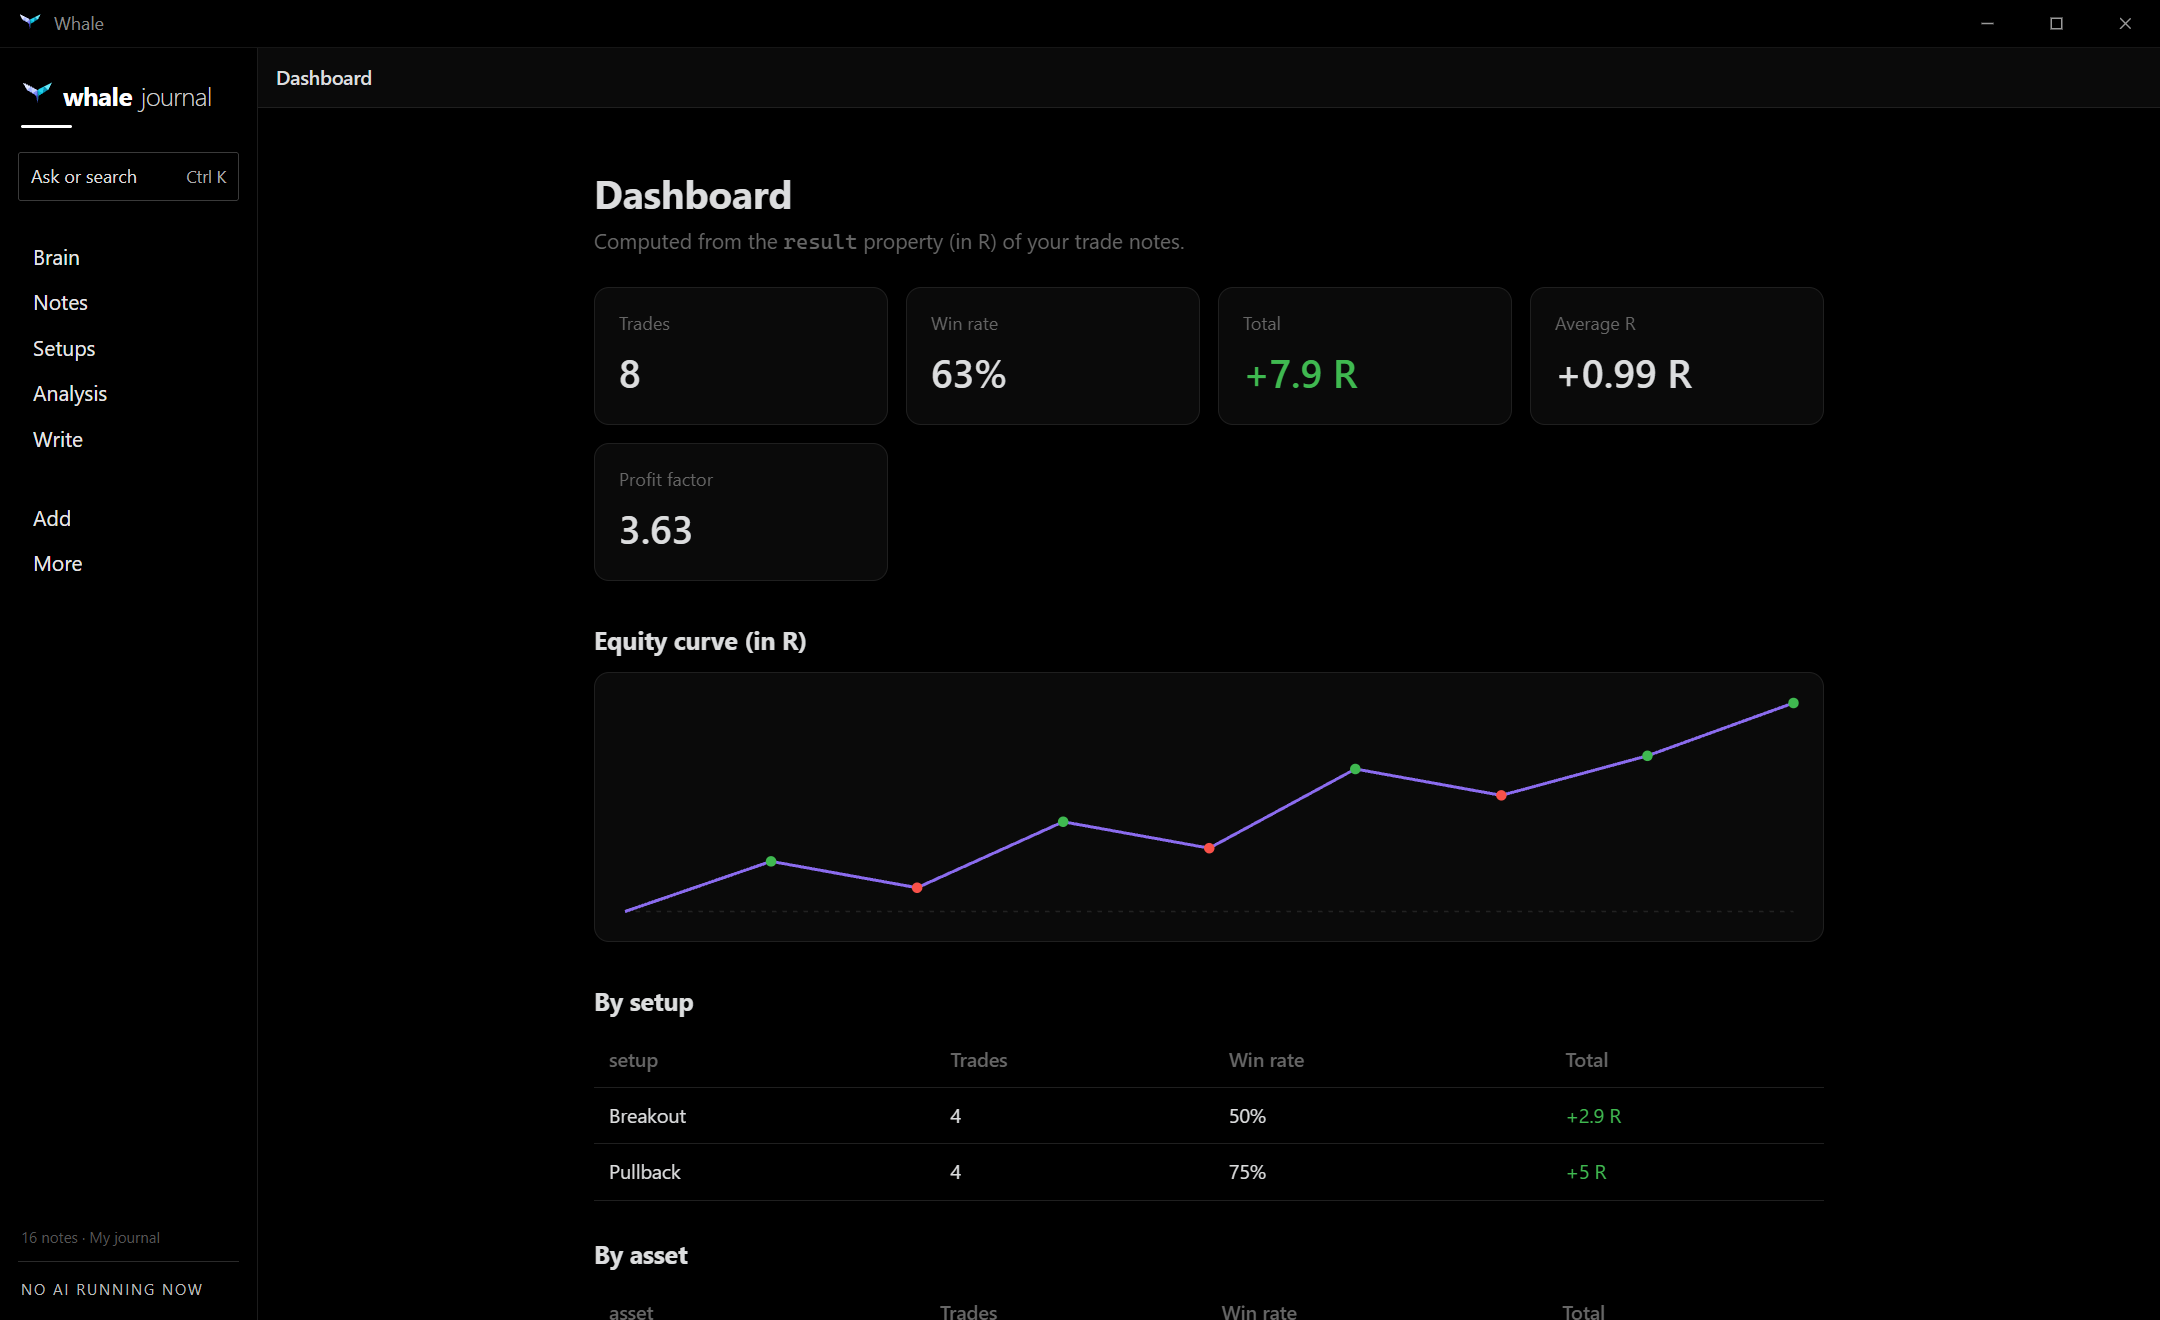
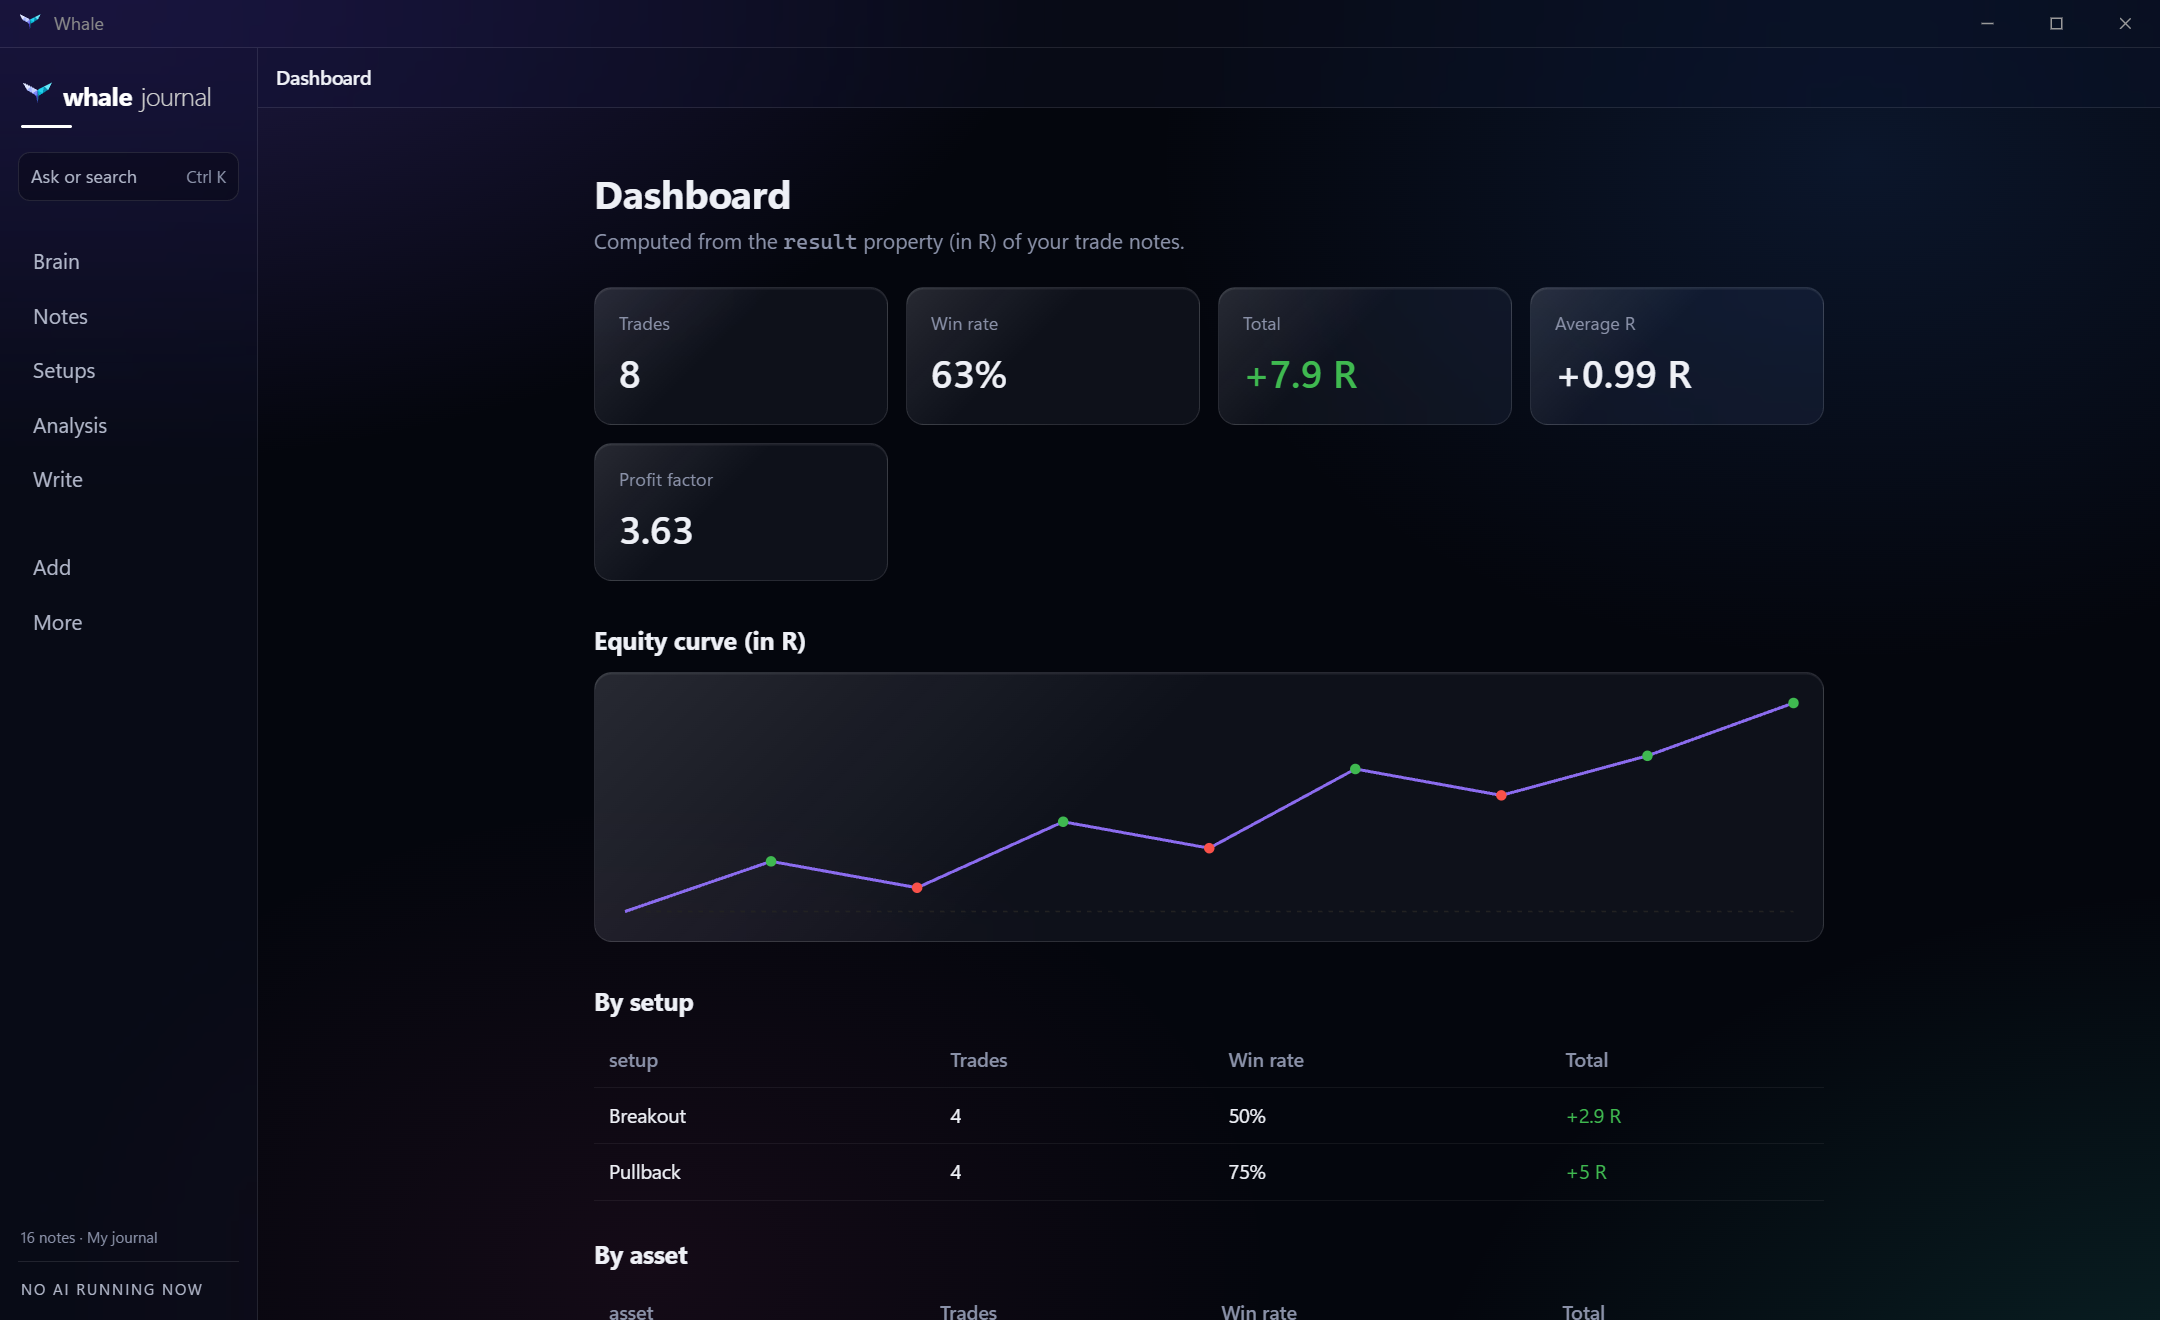
Glass design across the app (liquid glass and glassmorphism)
- Dark night background with soft violet, blue and teal ambient light, and
  three glass levels: chrome (title bar, navigation, sidebars, panels, the
  terminal's bars), cards (tiles, dashboard, setups, notes), and floating
  surfaces (menus, palette, modals, popovers, toasts) with a light edge.
- Controls become translucent; the selected one is a raised glass pill.
  Charts are transparent over a faint glass so the data stays sharp.
- Text colors raised to at least 4.5:1 contrast, visible keyboard focus,
  web-size targets for small controls, labels on icon-only buttons.
- Solid surfaces when Windows asks for reduced transparency, no transitions
  when it asks for reduced motion.

diff --git a/src/style.css b/src/style.css
@@ -552,3 +552,144 @@ body.desktop #app{height:calc(100vh - 32px)}
 @media (max-width:1150px){.an-body{grid-template-columns:42px minmax(0,1fr) 260px}.an-tabs button small{display:none}}
 @media (max-width:900px){.an-body{grid-template-columns:42px minmax(0,1fr)}.an-panel{display:none}.an-search{width:200px}}
 .pr code{font-family:var(--mono);font-size:11.5px;color:var(--tx3);margin-left:4px}
+
+/* =====================================================================================
+   Glass theme (ui-ux-pro-max: "liquid-glass" + "glassmorphism" on a dark OLED base)
+   - content stays on a clear layer; glass is used for chrome, cards, controls and overlays
+   - three glass levels: chrome (nav, bars, panels), cards, floating (menus, modals, popovers)
+   - text contrast >= 4.5:1, visible focus, opaque fallback for reduced transparency, no motion when reduced
+   ===================================================================================== */
+:root{
+  --tx:#eef0f6;--tx2:#b1b7c9;--tx3:#8a91a8;
+  --line:rgba(255,255,255,.08);--line2:rgba(255,255,255,.13);
+  --bg2:rgba(255,255,255,.035);--bg3:rgba(255,255,255,.055);--bg4:rgba(255,255,255,.08);
+  --night:#04060d;
+  /* glass levels */
+  --g1:rgba(14,17,30,.40);--g1-blur:blur(22px) saturate(150%);
+  --g2:rgba(255,255,255,.045);--g2-blur:blur(16px) saturate(140%);
+  --g3:rgba(16,18,30,.72);--g3-blur:blur(28px) saturate(170%);
+  --g-edge:rgba(255,255,255,.10);--g-edge-hi:rgba(255,255,255,.18);
+  --g-shine:linear-gradient(135deg,rgba(255,255,255,.10),rgba(255,255,255,0) 42%);
+  --g-inset:inset 0 1px 0 rgba(255,255,255,.07);
+  --g-shadow:0 10px 34px rgba(0,0,0,.38);
+  --ctl:rgba(255,255,255,.045);--ctl-hover:rgba(255,255,255,.085);
+  --ctl-on:linear-gradient(180deg,rgba(255,255,255,.17),rgba(255,255,255,.06));
+  --acc-glass:rgba(139,108,239,.16);--acc-edge:rgba(166,139,255,.38);
+  --field:rgba(0,0,0,.28);
+  --r-sm:8px;--r-md:12px;--r-lg:16px;
+  --t-fast:150ms;--t-med:220ms;
+}
+html,body{font-family:Inter,"Segoe UI Variable Text","Segoe UI",system-ui,-apple-system,sans-serif}
+/* ambient light behind the glass: violet, blue and teal halos on deep night */
+body{background:
+  radial-gradient(1100px 700px at 4% -14%,rgba(124,92,255,.30),transparent 62%),
+  radial-gradient(900px 640px at 104% 112%,rgba(45,212,191,.15),transparent 62%),
+  radial-gradient(780px 560px at 86% 12%,rgba(59,130,246,.13),transparent 60%),
+  radial-gradient(700px 520px at 30% 96%,rgba(236,72,153,.07),transparent 60%),
+  var(--night);background-attachment:fixed}
+#main,#app{background:transparent}
+.view:not(#graphview){background:transparent}
+
+/* shared glass recipes */
+#titlebar,#nav,#side,#tabbar,#right,#aipanel,.an-head,.an-rail,.an-panel,.gr-top{
+  background:var(--g1);-webkit-backdrop-filter:var(--g1-blur);backdrop-filter:var(--g1-blur);border-color:var(--g-edge)!important}
+body.desktop #titlebar{background:var(--g1);border-bottom:1px solid var(--g-edge)}
+#nav{border-right:1px solid var(--g-edge)}
+.card,.dk-tile,.dk-card,.su-card,.props,.su-trade,#eq,.bl,.logos button,.an-sec .su-svg{
+  background:var(--g2);background-image:var(--g-shine);-webkit-backdrop-filter:var(--g2-blur);backdrop-filter:var(--g2-blur);
+  border:1px solid var(--g-edge);border-radius:var(--r-md);box-shadow:var(--g-inset)}
+.an-sec .su-svg{padding:6px;border-radius:var(--r-sm)}
+.mbox,.pbox,#more,.an-sugg,.an-pop,.an-edit,#gtip,.toast,#glegend,#ghistwrap{
+  background:var(--g3);background-image:var(--g-shine);-webkit-backdrop-filter:var(--g3-blur);backdrop-filter:var(--g3-blur);
+  border:1px solid var(--g-edge-hi);box-shadow:var(--g-inset),var(--g-shadow)}
+.mbox{border-radius:var(--r-lg)}
+.pbox{border-radius:var(--r-lg)}
+#more{border-radius:var(--r-md)}
+.modal{background:rgba(3,5,12,.58);-webkit-backdrop-filter:blur(6px);backdrop-filter:blur(6px)}
+#glegend{padding:12px 14px;border-radius:var(--r-md)}
+#ghistwrap{padding:10px 12px 8px;border-radius:var(--r-md);width:186px}
+
+/* controls: translucent, the active one is a raised liquid pill */
+.tbtn,.an-ghost,.chip,.suggest button,.apsug button,.src a,#apOpen,.su-item,.mi,.nl,.pr,.wl-row,.an-dl,.an-pi,.an-s,.tl-item{
+  transition:background-color var(--t-fast) ease,border-color var(--t-fast) ease,color var(--t-fast) ease,box-shadow var(--t-fast) ease}
+.tbtn,.an-ghost,.chip,.suggest button,.apsug button,#apOpen{background:var(--ctl);border:1px solid var(--g-edge);color:var(--tx2)}
+.tbtn,.an-ghost{border-radius:var(--r-sm);min-height:28px}
+.chip{min-height:26px;padding:2px 11px;border-radius:999px}
+.tbtn:hover,.an-ghost:hover,.chip:hover,.suggest button:hover,.apsug button:hover,#apOpen:hover{background:var(--ctl-hover);border-color:var(--g-edge-hi);color:var(--tx)}
+.chip.on,.su-item.on,.mi.on{background:var(--ctl-on);border-color:var(--g-edge-hi);color:#fff;box-shadow:var(--g-inset)}
+.tbtn.ai,.an-ghost.ai{background:var(--acc-glass);border-color:var(--acc-edge);color:#d6cbff}
+.tbtn.ai:hover,.an-ghost.ai:hover{background:rgba(139,108,239,.26);color:#fff}
+.an-seg,.seg{background:rgba(255,255,255,.035);border:1px solid var(--g-edge);border-radius:10px;padding:2px;box-shadow:inset 0 1px 2px rgba(0,0,0,.35)}
+.an-seg button,.seg button{min-height:26px;border-radius:8px;color:var(--tx2);border:1px solid transparent}
+.an-seg button:hover,.seg button:hover{color:var(--tx);background:rgba(255,255,255,.05)}
+.an-seg button.on,.seg button.on{background:var(--ctl-on);border-color:var(--g-edge-hi);color:#fff;box-shadow:var(--g-inset),0 2px 10px rgba(0,0,0,.3)}
+.an-tabs button{color:var(--tx2)}
+.an-tabs button small{color:var(--tx3)}
+.an-tabs button.on{color:#fff;box-shadow:inset 0 -2px 0 var(--acc2);background:linear-gradient(180deg,transparent 40%,rgba(166,139,255,.10))}
+.an-rail button{color:var(--tx2);border:1px solid transparent}
+.an-rail button:hover{background:var(--ctl-hover)}
+.an-rail button.on{background:var(--acc-glass);border-color:var(--acc-edge);color:#e2d9ff;box-shadow:var(--g-inset)}
+.an-ptabs button{color:var(--tx2)}
+
+/* left navigation: glass pill for the current view */
+.nl{border-radius:var(--r-sm);padding:6px 10px;margin:1px 0;color:var(--tx2)}
+.nl:hover{background:rgba(255,255,255,.05);color:#fff}
+.nl.on{background:var(--ctl-on);color:#fff;box-shadow:var(--g-inset);font-weight:600}
+.nl.on::before{left:-12px;top:9px;bottom:9px;width:3px;border-radius:0 3px 3px 0;background:var(--acc2);box-shadow:0 0 12px rgba(166,139,255,.6)}
+#openPalette{background:var(--field);border:1px solid var(--g-edge);border-radius:var(--r-sm);color:var(--tx2);transition:border-color var(--t-fast) ease}
+#openPalette:hover{border-color:var(--g-edge-hi);color:#fff}
+#openPalette kbd{color:var(--tx3)}
+.mi:hover{background:rgba(255,255,255,.07)}
+.msep{background:var(--g-edge)}
+
+/* fields */
+#search,.search2,.an-search,.wl-add input,.al-form input,.al-form select,.an-form input,.an-edit input,.mbox input,.mbox textarea,.mbox select,#askform,#apform{
+  background:var(--field);border:1px solid var(--g-edge);border-radius:var(--r-sm)}
+#askform,#apform{border-radius:var(--r-md);box-shadow:var(--g-inset)}
+.an-search:focus-within,#search:focus,.search2:focus,.wl-add input:focus,.al-form input:focus,.an-form input:focus,.mbox input:focus{border-color:var(--acc-edge);box-shadow:0 0 0 3px rgba(139,108,239,.18)}
+.an-search input::placeholder,#pinput::placeholder,.wl-add input::placeholder{color:var(--tx3)}
+#pinput{border-bottom:1px solid var(--g-edge)}
+.pr.on{background:rgba(255,255,255,.08)}
+.pr small{color:var(--tx3)}
+
+/* lists and rows */
+.wl-row:hover,.an-dl:hover,.tl-item:hover,.su-item:hover,tr.click:hover td,.dk-table tr.click:hover td{background:rgba(255,255,255,.04)}
+.wl-row.on,.an-dl.on{background:linear-gradient(90deg,rgba(166,139,255,.14),rgba(166,139,255,.03))}
+.dk-table th{background:rgba(8,10,20,.82);-webkit-backdrop-filter:blur(12px);backdrop-filter:blur(12px)}
+.dk-table td,.dk-table th,th,td{border-color:rgba(255,255,255,.06)}
+.dk-tile.click:hover{border-color:var(--g-edge-hi);background-color:rgba(255,255,255,.07)}
+.cm td.self{background:rgba(255,255,255,.04)!important}
+
+/* chart area: a clear layer over a faint glass so the data stays sharp */
+.an-charts{background:rgba(255,255,255,.015)}
+.gr{background:var(--g-edge)}
+.gr-cell{background:rgba(6,8,16,.72)}
+.an-legend b{color:var(--tx)}
+
+/* text that must stay readable (>= 4.5:1 on the darkest surface) */
+.an-pane-l,.an-source,.an-attr,.an-legend,.an-q-tf,.wl-h,.wl-note,.wl-sym small,.an-s-h,.dk-src,.dk-h .dk-sub,.dk-tile .l,.dk-tile .s,.dk-msg,
+.yc-legend,.su-list-h,.su-item small,#ghistlabel,#status,.al-row small,.empty,.note,.sub,.tl-day,.tl-snip,.rh,.pk,.card .l,.an-kv span,.an-form label,.nw-meta{color:var(--tx3)}
+.an-search{color:var(--tx3)}
+.su-lbl{fill:#9aa1b6}
+.an-q-name{color:var(--tx3)}
+#aistatus{color:var(--tx2);border-top-color:var(--g-edge)}
+
+/* focus: visible on every control (keyboard) */
+:focus-visible{outline:2px solid var(--acc2);outline-offset:2px;border-radius:6px}
+input:focus-visible,textarea:focus-visible{outline:none}
+
+/* scrollbars, quieter on glass */
+::-webkit-scrollbar-thumb{background:rgba(255,255,255,.12);border:2px solid transparent;background-clip:padding-box}
+::-webkit-scrollbar-thumb:hover{background:rgba(255,255,255,.2);background-clip:padding-box}
+::-webkit-scrollbar-track{background:transparent}
+
+/* reduced transparency: solid surfaces, no blur */
+@media (prefers-reduced-transparency:reduce){
+  :root{--g1:#0b0e19;--g2:#10131f;--g3:#141826;--g1-blur:none;--g2-blur:none;--g3-blur:none;--g-shine:none;--ctl:#141826;--field:#090b14}
+  body{background:var(--night)}
+  .modal{background:rgba(3,5,12,.86);-webkit-backdrop-filter:none;backdrop-filter:none}
+}
+/* reduced motion: no transitions or CSS animations */
+@media (prefers-reduced-motion:reduce){
+  *,*::before,*::after{transition:none!important;animation:none!important}
+}

diff --git a/src/analysis.js b/src/analysis.js
@@ -65,16 +65,16 @@ window.Analysis = (() => {
             <div class="an-quote" id="anQuote"></div>
             <div class="an-ctrl">
               <div class="an-seg">${Market.TIMEFRAMES.map((t) => `<button data-tf="${t.id}">${t.id}</button>`).join('')}</div>
-              <div class="an-seg an-seg-i">${TYPES.map(([k, l]) => `<button data-ctype="${k}" title="${l}">${ICON[k]}</button>`).join('')}</div>
+              <div class="an-seg an-seg-i">${TYPES.map(([k, l]) => `<button data-ctype="${k}" title="${l}" aria-label="${l} chart">${ICON[k]}</button>`).join('')}</div>
               <div class="an-menu"><button class="an-ghost" id="anIndBtn">Indicators <span id="anIndN"></span></button>
                 <div class="an-pop hide" id="anIndPop">${IND.map(([k, l]) => `<button class="an-pi" data-ind="${k}"><i style="background:${IND_COLOR[k]}"></i><span>${l}</span><b></b></button>`).join('')}</div></div>
             </div>
           </div>
           <div class="an-body">
             <div class="an-rail">
-              <button data-tool="" title="Select and move drawings (Esc)">${ICON.select}</button><span class="an-rail-sep"></span>
-              ${TOOLS.map(([k, l, h]) => `<button data-tool="${k}" title="${l}: ${h}">${ICON[k]}</button>`).join('')}<span class="an-rail-sep"></span>
-              <button id="anClear" title="Remove all drawings on this symbol">${ICON.trash}</button>
+              <button data-tool="" title="Select and move drawings (Esc)" aria-label="Select and move drawings">${ICON.select}</button><span class="an-rail-sep"></span>
+              ${TOOLS.map(([k, l, h]) => `<button data-tool="${k}" title="${l}: ${h}" aria-label="${l}">${ICON[k]}</button>`).join('')}<span class="an-rail-sep"></span>
+              <button id="anClear" title="Remove all drawings on this symbol" aria-label="Remove all drawings">${ICON.trash}</button>
             </div>
             <div class="an-charts">
               <div class="an-legend" id="anLegend"></div>
@@ -105,14 +105,14 @@ window.Analysis = (() => {
     const opts = (extra) => Object.assign({
       autoSize: true,
       localization: { locale: LOCALE, priceFormatter: (p) => fmt(p) }, // the app's language, and prices like 108,000
-      layout: { background: { type: 'solid', color: '#000' }, textColor: '#6f6f6f', fontFamily: 'system-ui, -apple-system, Segoe UI, sans-serif', fontSize: 11, attributionLogo: false },
+      layout: { background: { type: 'solid', color: 'transparent' }, textColor: '#8a91a8', fontFamily: 'system-ui, -apple-system, Segoe UI, sans-serif', fontSize: 11, attributionLogo: false },
       grid: { vertLines: { visible: false }, horzLines: { color: 'rgba(255,255,255,0.04)' } },
       rightPriceScale: { borderVisible: false, scaleMargins: { top: 0.1, bottom: 0.08 } },
       timeScale: { borderVisible: false, rightOffset: 4, barSpacing: 6, minBarSpacing: 0.4 },
       crosshair: {
         mode: LC.CrosshairMode.Normal,
-        vertLine: { color: 'rgba(255,255,255,0.22)', width: 1, style: 3, labelBackgroundColor: '#1a1a1a' },
-        horzLine: { color: 'rgba(255,255,255,0.22)', width: 1, style: 3, labelBackgroundColor: '#1a1a1a' },
+        vertLine: { color: 'rgba(255,255,255,0.22)', width: 1, style: 3, labelBackgroundColor: '#1b1f33' },
+        horzLine: { color: 'rgba(255,255,255,0.22)', width: 1, style: 3, labelBackgroundColor: '#1b1f33' },
       },
     }, extra || {});
     charts.main = LC.createChart($('anMain'), opts());

diff --git a/src/desk.js b/src/desk.js
@@ -125,10 +125,10 @@ window.Desk = (() => {
     return LC.createChart(box, {
       autoSize: true,
       localization: { locale: LOCALE, priceFormatter: (p) => U().fmt(p) },
-      layout: { background: { type: 'solid', color: '#000' }, textColor: '#5f5f5f', fontFamily: 'system-ui, -apple-system, Segoe UI, sans-serif', fontSize: 10.5, attributionLogo: false },
+      layout: { background: { type: 'solid', color: 'transparent' }, textColor: '#8a91a8', fontFamily: 'system-ui, -apple-system, Segoe UI, sans-serif', fontSize: 10.5, attributionLogo: false },
       grid: { vertLines: { visible: false }, horzLines: { color: 'rgba(255,255,255,0.035)' } },
       rightPriceScale: { borderVisible: false }, timeScale: { borderVisible: false },
-      crosshair: { vertLine: { color: 'rgba(255,255,255,0.2)', style: 3, labelBackgroundColor: '#1a1a1a' }, horzLine: { color: 'rgba(255,255,255,0.2)', style: 3, labelBackgroundColor: '#1a1a1a' } },
+      crosshair: { vertLine: { color: 'rgba(255,255,255,0.2)', style: 3, labelBackgroundColor: '#1b1f33' }, horzLine: { color: 'rgba(255,255,255,0.2)', style: 3, labelBackgroundColor: '#1b1f33' } },
     });
   }
   function grid(el) {

diff --git a/README.md b/README.md
@@ -104,7 +104,7 @@ Each setup gets its own page: a schematic chart showing how it looks (entry, sto
 | **AI classification** | One click fills in a note's type, tags, date, summary and trade properties, and links it to your other notes. Works on a single note or the whole vault. |
 | **Import** | Obsidian or Notion folders (Markdown), ChatGPT and Claude conversations (`conversations.json`), and broker trades as CSV (MT4/MT5, TradingView, Binance, IBKR…) with R computed for you. |
 | **Timeline** | All your notes month by month, filterable by type. |
-| **Native feel** | Black built-in title bar, 3 logos to choose from, and a ~8 MB app. |
+| **Native feel** | A dark glass design (frosted translucent panels over soft ambient light, solid surfaces when Windows asks for reduced transparency), built-in title bar, 3 logos to choose from, and a ~8 MB app. |
 
 ## AI, your choice
 
